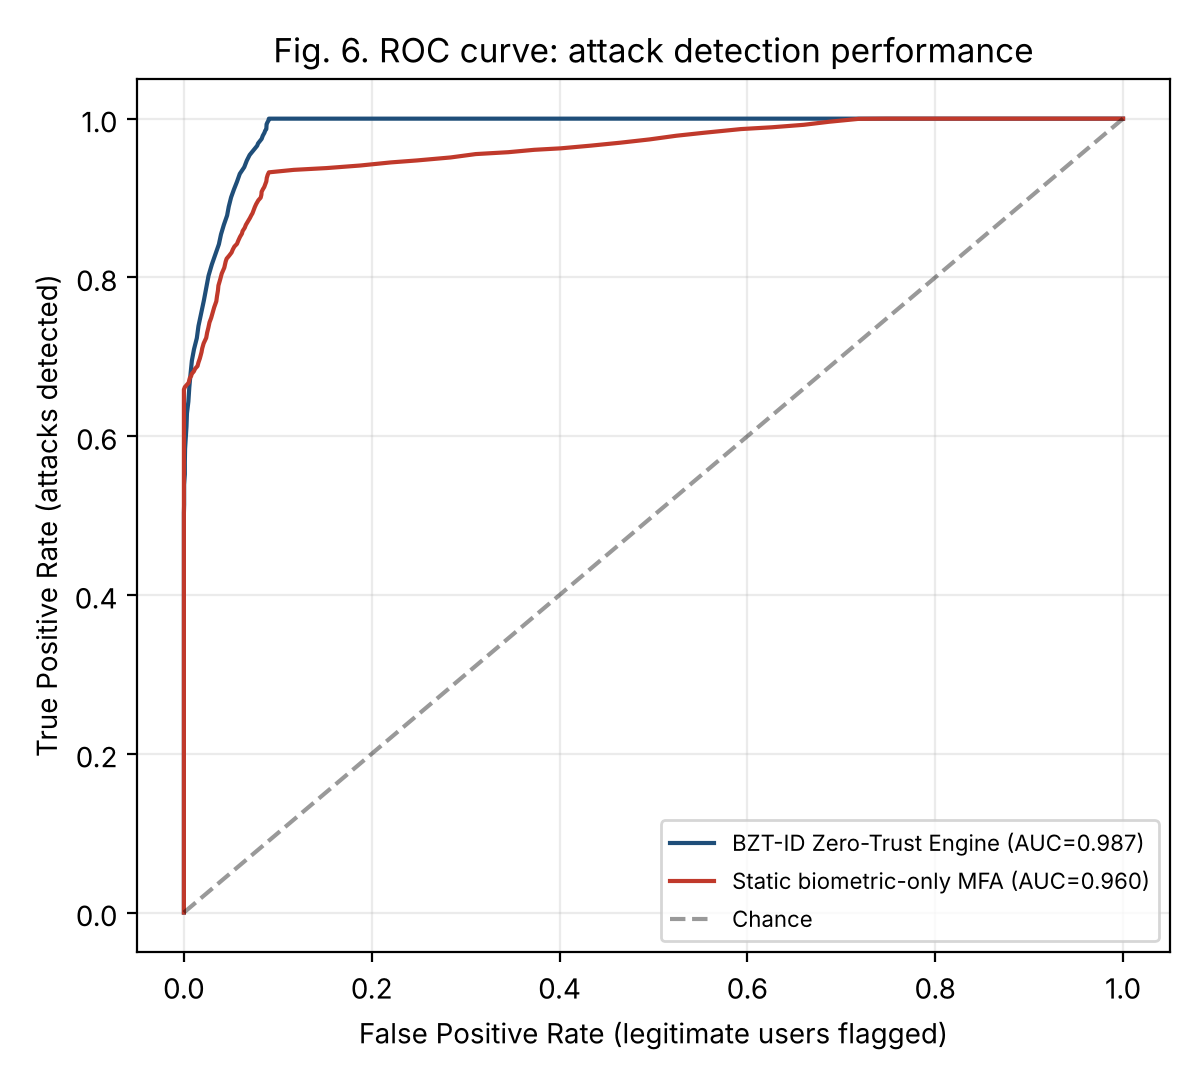
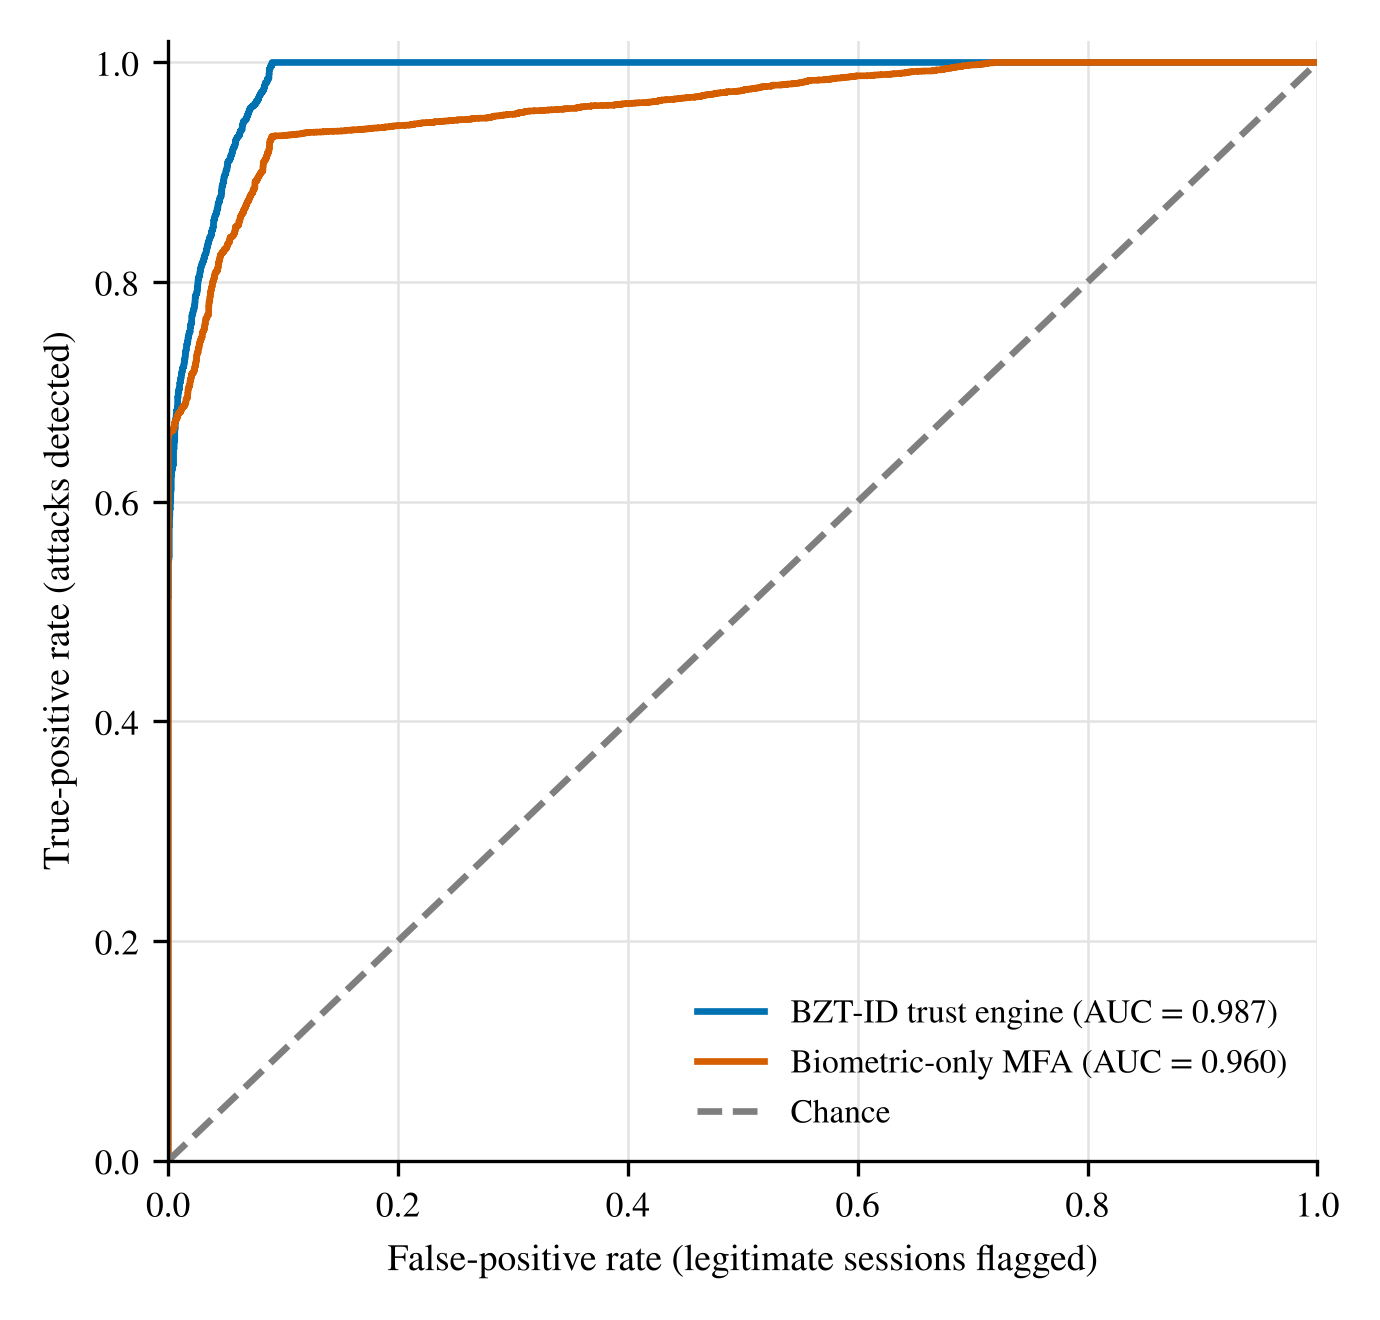
Unified 300-dpi figure style for Figs 3-10
Claude-Session: https://claude.ai/code/session_01TBqWKFYaju92fTNdPFwbcp

diff --git a/code/plot_unified.py b/code/plot_unified.py
@@ -1,0 +1,91 @@
+"""Regenerates Figs 3-8 and 10 in a consistent style from the saved CSVs (Fig 9 is drawn in exp6_real_biometric.py)."""
+import os, numpy as np, pandas as pd
+from figstyle import *
+setup()
+H = os.path.dirname(os.path.abspath(__file__)); D = os.path.join(H, "..", "data"); F = os.path.join(H, "..", "figures")
+def save(fig, name): fig.savefig(os.path.join(F, name)); plt.close(fig); print("wrote", name)
+
+# Fig 3
+d = pd.read_csv(os.path.join(D, "exp1_latency_vs_peers.csv"))
+fig, ax = plt.subplots(figsize=(6.5, 3.6))
+ax.plot(d.num_peers, d.issue_latency_ms_mean, "-o", color=C["blue"], label="Issuance, mean")
+ax.plot(d.num_peers, d.issue_latency_ms_p95, "--o", color=C["blue"], mfc="white", label="Issuance, p95")
+ax.plot(d.num_peers, d.verify_latency_ms_mean, "-s", color=C["verm"], label="Verification, mean")
+ax.plot(d.num_peers, d.verify_latency_ms_p95, "--s", color=C["verm"], mfc="white", label="Verification, p95")
+ax.set_xlabel("Number of consortium peer nodes (N)"); ax.set_ylabel("Commit latency (ms)"); ax.set_xticks(d.num_peers)
+ax.legend(ncol=2, loc="center right", bbox_to_anchor=(1, 0.5)); fig.tight_layout(); save(fig, "fig3_latency_vs_peers.png")
+
+# Fig 4
+d = pd.read_csv(os.path.join(D, "exp2_throughput_vs_load.csv"))
+fig, ax = plt.subplots(figsize=(6.5, 3.8))
+for n, c, m in [(4, C["blue"], "o"), (10, C["green"], "s"), (22, C["verm"], "^")]:
+    s = d[d.num_peers == n]; ax.plot(s.offered_load_tps, s.achieved_tps, "-" + m, color=c, label=f"N = {n} peers")
+mx = d.offered_load_tps.max(); ax.plot([0, mx], [0, mx], ":", color=C["grey"], label="Ideal (achieved = offered)")
+ax.set_xlabel("Offered load (verification requests/s)"); ax.set_ylabel("Achieved throughput (committed tx/s)")
+ax.legend(loc="upper left"); fig.tight_layout(); save(fig, "fig4_throughput_vs_load.png")
+
+# Figs 5, 6
+sc = pd.read_csv(os.path.join(D, "exp3_scores.csv"))
+fig, ax = plt.subplots(figsize=(6.5, 3.9)); bins = np.linspace(0, 1, 41)
+spec = [("legitimate", "Legitimate", C["green"]), ("spoof", "Spoof", C["verm"]), ("credential_stuffing", "Credential stuffing", C["orange"]),
+        ("impossible_travel", "Impossible travel", C["purple"]), ("insider_replay", "Insider replay", C["blue"])]
+for k, lab, c in spec:
+    v = sc[sc.label == k].zte_score
+    ax.hist(v, bins=bins, density=True, histtype="stepfilled", alpha=0.25, color=c); ax.hist(v, bins=bins, density=True, histtype="step", color=c, lw=1.4, label=lab)
+ax.axvline(0.75, color=C["ink"], ls="--", lw=1); ax.axvline(0.5, color=C["grey"], ls=":", lw=1.2)
+ax.set_ylim(0, ax.get_ylim()[1] * 1.12); ymax = ax.get_ylim()[1]; ax.text(0.755, ymax * 0.985, "ALLOW ≥ 0.75", fontsize=8, va="top"); ax.text(0.495, ymax * 0.985, "STEP-UP ≥ 0.50", fontsize=8, va="top", ha="right", color=C["grey"])
+ax.set_xlabel("Zero-trust composite score $T(x)$"); ax.set_ylabel("Density"); ax.set_xlim(0, 1.02)
+ax.legend(loc="center left", bbox_to_anchor=(0.0, 0.60)); fig.tight_layout(); save(fig, "fig5_score_distributions.png")
+
+def roc(s, atk):
+    th = np.unique(np.concatenate([[-1, 2], s])); fpr = [(s[atk == 0] < t).mean() for t in th]; tpr = [(s[atk == 1] < t).mean() for t in th]
+    o = np.argsort(fpr, kind="stable"); f = np.array(fpr)[o]; t = np.array(tpr)[o]; return f, t, np.trapezoid(t, f)
+atk = sc.is_attack.values
+fig, ax = plt.subplots(figsize=(4.6, 4.4))
+for col, lab, c in [("zte_score", "BZT-ID trust engine", C["blue"]), ("biometric_only", "Biometric-only MFA", C["verm"])]:
+    f, t, a = roc(sc[col].values, atk); ax.plot(f, t, color=c, label=f"{lab} (AUC = {a:.3f})")
+ax.plot([0, 1], [0, 1], "--", color=C["grey"], label="Chance"); ax.set_xlabel("False-positive rate (legitimate sessions flagged)"); ax.set_ylabel("True-positive rate (attacks detected)")
+ax.set_xlim(0, 1); ax.set_ylim(0, 1.02); ax.legend(loc="lower right"); fig.tight_layout(); save(fig, "fig6_roc_curve.png")
+
+# Fig 7
+def issue(df):
+    x = df[df["Name"].str.startswith("issue-")].copy(); x["rate"] = x["Name"].str.extract(r"issue-(\d+)tps").astype(int); return x.sort_values("rate")
+fig, ax = plt.subplots(1, 2, figsize=(6.5, 3.3))
+for key, lab, c, m in [("default", "Default batching (2 s, 10 tx/block)", C["blue"], "o"), ("tuned", "Tuned batching (200 ms, 100 tx/block)", C["verm"], "s")]:
+    x = issue(pd.read_csv(os.path.join(D, "fabric", f"fabric_{key}.csv")))
+    ax[0].plot(x["rate"], x["Avg Latency (s)"] * 1000, "-" + m, color=c, label=lab); ax[1].plot(x["rate"], x["Throughput (TPS)"], "-" + m, color=c, label=lab)
+ax[1].plot([0, 310], [0, 310], ":", color=C["grey"]); ax[1].text(212, 236, "ideal", color=C["grey"], fontsize=8, rotation=34)
+ax[0].set_ylim(bottom=0); ax[1].set_xlim(0, 310); ax[1].set_ylim(0, 310)
+ax[0].set_ylabel("Mean commit latency (ms)"); ax[1].set_ylabel("Committed throughput (tx/s)")
+for a in ax: a.set_xlabel("Offered send rate (tx/s)")
+panel(ax[0], "(a) Write latency"); panel(ax[1], "(b) Write throughput")
+h, l = ax[0].get_legend_handles_labels(); fig.legend(h, l, loc="lower center", ncol=2, bbox_to_anchor=(0.5, -0.01))
+fig.tight_layout(rect=(0, 0.08, 1, 1)); save(fig, "fig7_fabric_real_benchmark.png")
+
+# Fig 8
+w = pd.read_csv(os.path.join(D, "exp5_weight_sensitivity.csv")); dd = pd.read_csv(os.path.join(D, "exp5_difficulty_sweep.csv"))
+rnd = w[w.weights != "nominal"]; nom = float(w[w.weights == "nominal"].auc.iloc[0])
+fig, ax = plt.subplots(1, 2, figsize=(6.5, 3.2))
+ax[0].hist(rnd.auc, bins=25, color=C["sky"], edgecolor="white"); ax[0].axvline(nom, color=C["ink"], ls="--", lw=1.2)
+ax[0].text(nom - 0.0003, ax[0].get_ylim()[1] * 0.97, "nominal ", fontsize=8, va="top", ha="right"); ax[0].set_xlabel("ROC-AUC (500 random weight vectors)"); ax[0].set_ylabel("Count")
+ax[1].plot(dd.difficulty_d, dd.zte_auc, "-o", color=C["blue"], label="Trust engine"); ax[1].plot(dd.difficulty_d, dd.bio_only_auc, "-s", color=C["verm"], label="Biometric only")
+ax[1].set_xlabel("Attack difficulty $d$ (0 = Exp. 3, 1 = indistinguishable)"); ax[1].set_ylabel("ROC-AUC"); ax[1].legend(loc="lower left")
+panel(ax[0], "(a) Sensitivity to feature weights"); panel(ax[1], "(b) Sensitivity to attack difficulty"); fig.tight_layout(); save(fig, "fig8_sensitivity.png")
+
+# Fig 10
+f3 = pd.read_csv(os.path.join(D, "fabric3", "fabric3_raft_vs_bft_summary.csv")); bl = pd.read_csv(os.path.join(D, "baselines", "baselines_summary.csv"))
+fab = lambda o, b, n, c: float(f3[(f3.ordering == o) & (f3.batch == b) & (f3.name == n)][c].iloc[0])
+base = lambda m, op, off, c: float(bl[(bl["mode"] == m) & (bl.op == op) & (bl.offered == off)][c].iloc[0])
+labels = ["Centralized DB", "JWT service", "Fabric Raft, default", "Fabric Raft, tuned", "Fabric SmartBFT, default", "Fabric SmartBFT, tuned"]
+cols = [C["grey"], C["lgrey"], C["blue"], C["sky"], C["verm"], C["orange"]]
+lat = [base("central", "issue", 100, "lat_mean_ms"), base("jwt", "issue", 100, "lat_mean_ms")] + [fab(o, b, "issue-100tps", "lat_ms_mean") for o in ("raft", "bft") for b in ("default", "tuned")]
+wtp = [base("central", "issue", 300, "tp_mean"), base("jwt", "issue", 300, "tp_mean")] + [fab(o, b, "issue-300tps", "tp_mean") for o in ("raft", "bft") for b in ("default", "tuned")]
+rtp = [base("central", "verify", 600, "tp_mean"), base("jwt", "verify", 600, "tp_mean")] + [fab(o, b, "verify-600tps", "tp_mean") for o in ("raft", "bft") for b in ("default", "tuned")]
+fig, ax = plt.subplots(1, 3, figsize=(6.5, 3.3))
+for a, v, t, yl in zip(ax, [lat, wtp, rtp], ["(a) Write latency\nat 100 tx/s", "(b) Write throughput\nat 300 tx/s", "(c) Read throughput\nat 600 tx/s"], ["Mean latency (ms)", "Committed tx/s", "Committed tx/s"]):
+    a.bar(range(6), v, color=cols, edgecolor="#333", linewidth=0.4)
+    for i, x in enumerate(v): a.text(i, x, f"{x:.0f}", ha="center", va="bottom", fontsize=7.5)
+    a.set_xticks([]); a.set_ylabel(yl); panel(a, t); a.set_ylim(0, max(v) * 1.15); a.grid(axis="x", visible=False)
+from matplotlib.patches import Patch
+fig.legend([Patch(fc=c, ec="#333", lw=0.4) for c in cols], labels, loc="lower center", ncol=3, bbox_to_anchor=(0.5, -0.01), fontsize=8)
+fig.tight_layout(rect=(0, 0.14, 1, 1)); save(fig, "fig10_baselines_bft.png")

diff --git a/code/exp6_real_biometric.py b/code/exp6_real_biometric.py
@@ -134,13 +134,14 @@ pd.DataFrame({"auc": aucs}).to_csv(os.path.join(OUT_DATA, "exp6_weight_sensitivi
 print("weight AUC min/med/max", np.min(aucs), np.median(aucs), np.max(aucs), "nominal", summ.AUC[0], "equal", auc_attack_low(trust(df, [1/6]*6), atk))
 
 # figure
-fig, ax = plt.subplots(1, 2, figsize=(10.5, 4.3), dpi=200)
+from figstyle import setup, panel, C
+setup()
+fig, ax = plt.subplots(1, 2, figsize=(6.5, 3.2))
 b = np.linspace(-0.2, 1, 49)
-ax[0].hist(tg, bins=b, alpha=.6, color="#2a78d6", label="genuine pairs", density=True); ax[0].hist(ti, bins=b, alpha=.6, color="#eb6834", label="impostor pairs", density=True)
-ax[0].set_xlabel("raw cosine similarity (FaceNet embeddings)"); ax[0].set_ylabel("density"); ax[0].set_title("(a) Real LFW biometric scores (test identities)", fontsize=10); ax[0].legend(fontsize=8)
-for nm, s, c in [("Trust engine", eng, "#2a78d6"), ("Biometric only", bio, "#eb6834")]:
+ax[0].hist(ti, bins=b, alpha=.6, color=C["verm"], label="Impostor pairs", density=True); ax[0].hist(tg, bins=b, alpha=.6, color=C["blue"], label="Genuine pairs", density=True)
+ax[0].set_xlabel("Cosine similarity (FaceNet embeddings)"); ax[0].set_ylabel("Density"); ax[0].legend(loc="upper left"); panel(ax[0], "(a) LFW biometric scores")
+for nm, s, c in [("Trust engine", eng, C["blue"]), ("Biometric only", bio, C["verm"])]:
     fp = np.linspace(0, 1, 400); th = np.quantile(s[atk == 0], fp); tp = [(s[atk == 1] <= t).mean() for t in th]
     ax[1].plot(fp, tp, color=c, label=f"{nm} (AUC {auc_attack_low(s, atk):.3f})")
-ax[1].set_xlabel("false-positive rate (legitimate flagged)"); ax[1].set_ylabel("recall"); ax[1].set_xlim(0, .3); ax[1].set_title("(b) ROC on the real-biometric workload", fontsize=10); ax[1].legend(fontsize=8)
-for a in ax: a.grid(alpha=.25)
+ax[1].set_xlabel("False-positive rate (legitimate flagged)"); ax[1].set_ylabel("Recall"); ax[1].set_xlim(0, .3); ax[1].legend(loc="lower right"); panel(ax[1], "(b) ROC, real-biometric workload")
 fig.tight_layout(); fig.savefig(os.path.join(OUT_FIG, "fig9_real_biometric.png"))

diff --git a/code/figstyle.py b/code/figstyle.py
@@ -1,0 +1,11 @@
+"""Shared figure style: serif (matches Figs 1-2), colour-blind-safe palette, 300 dpi, sized for a 6.5 in text width."""
+import matplotlib; matplotlib.use("Agg")
+import matplotlib.pyplot as plt
+C = dict(blue="#0072B2", verm="#D55E00", green="#009E73", purple="#CC79A7", orange="#E69F00", sky="#56B4E9", grey="#7f7f7f", lgrey="#bdbdbd", ink="#111111")
+def setup():
+    plt.rcParams.update({"font.family": "STIXGeneral", "mathtext.fontset": "stix", "font.size": 9, "axes.titlesize": 9.5,
+        "axes.labelsize": 9, "xtick.labelsize": 8.5, "ytick.labelsize": 8.5, "legend.fontsize": 8, "axes.linewidth": 0.8,
+        "axes.spines.top": False, "axes.spines.right": False, "axes.grid": True, "grid.color": "#e3e3e3", "grid.linewidth": 0.6,
+        "axes.axisbelow": True, "figure.dpi": 100, "savefig.dpi": 300, "savefig.facecolor": "white", "figure.facecolor": "white",
+        "lines.linewidth": 1.6, "lines.markersize": 5, "legend.frameon": False})
+def panel(ax, text): ax.set_title(text, loc="left", fontweight="bold", fontsize=9.5)
